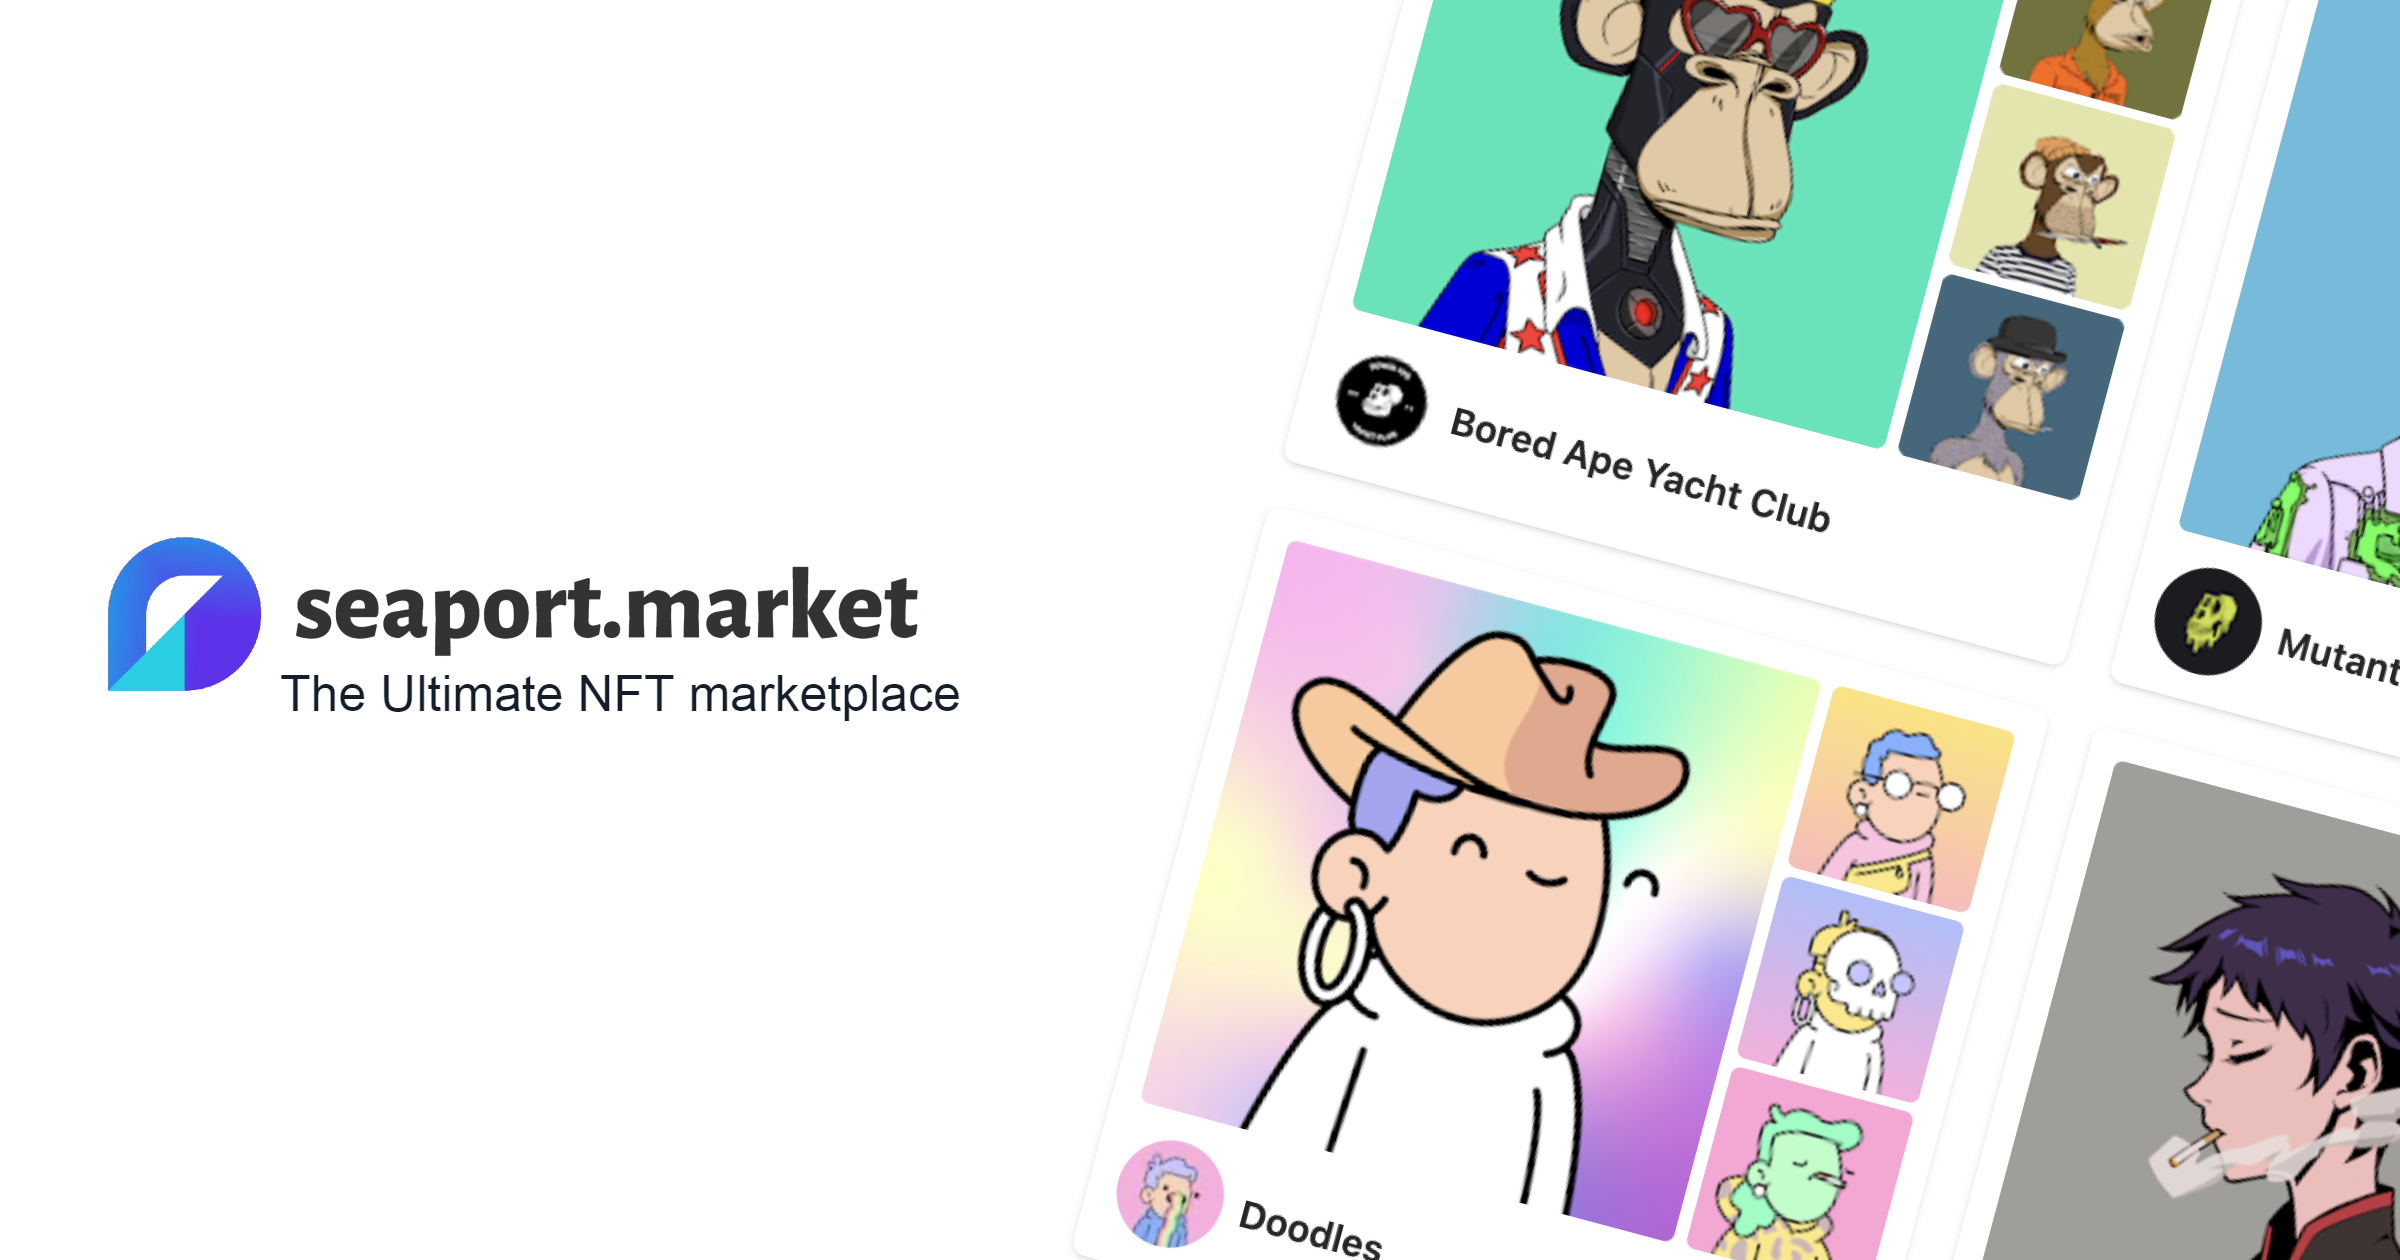
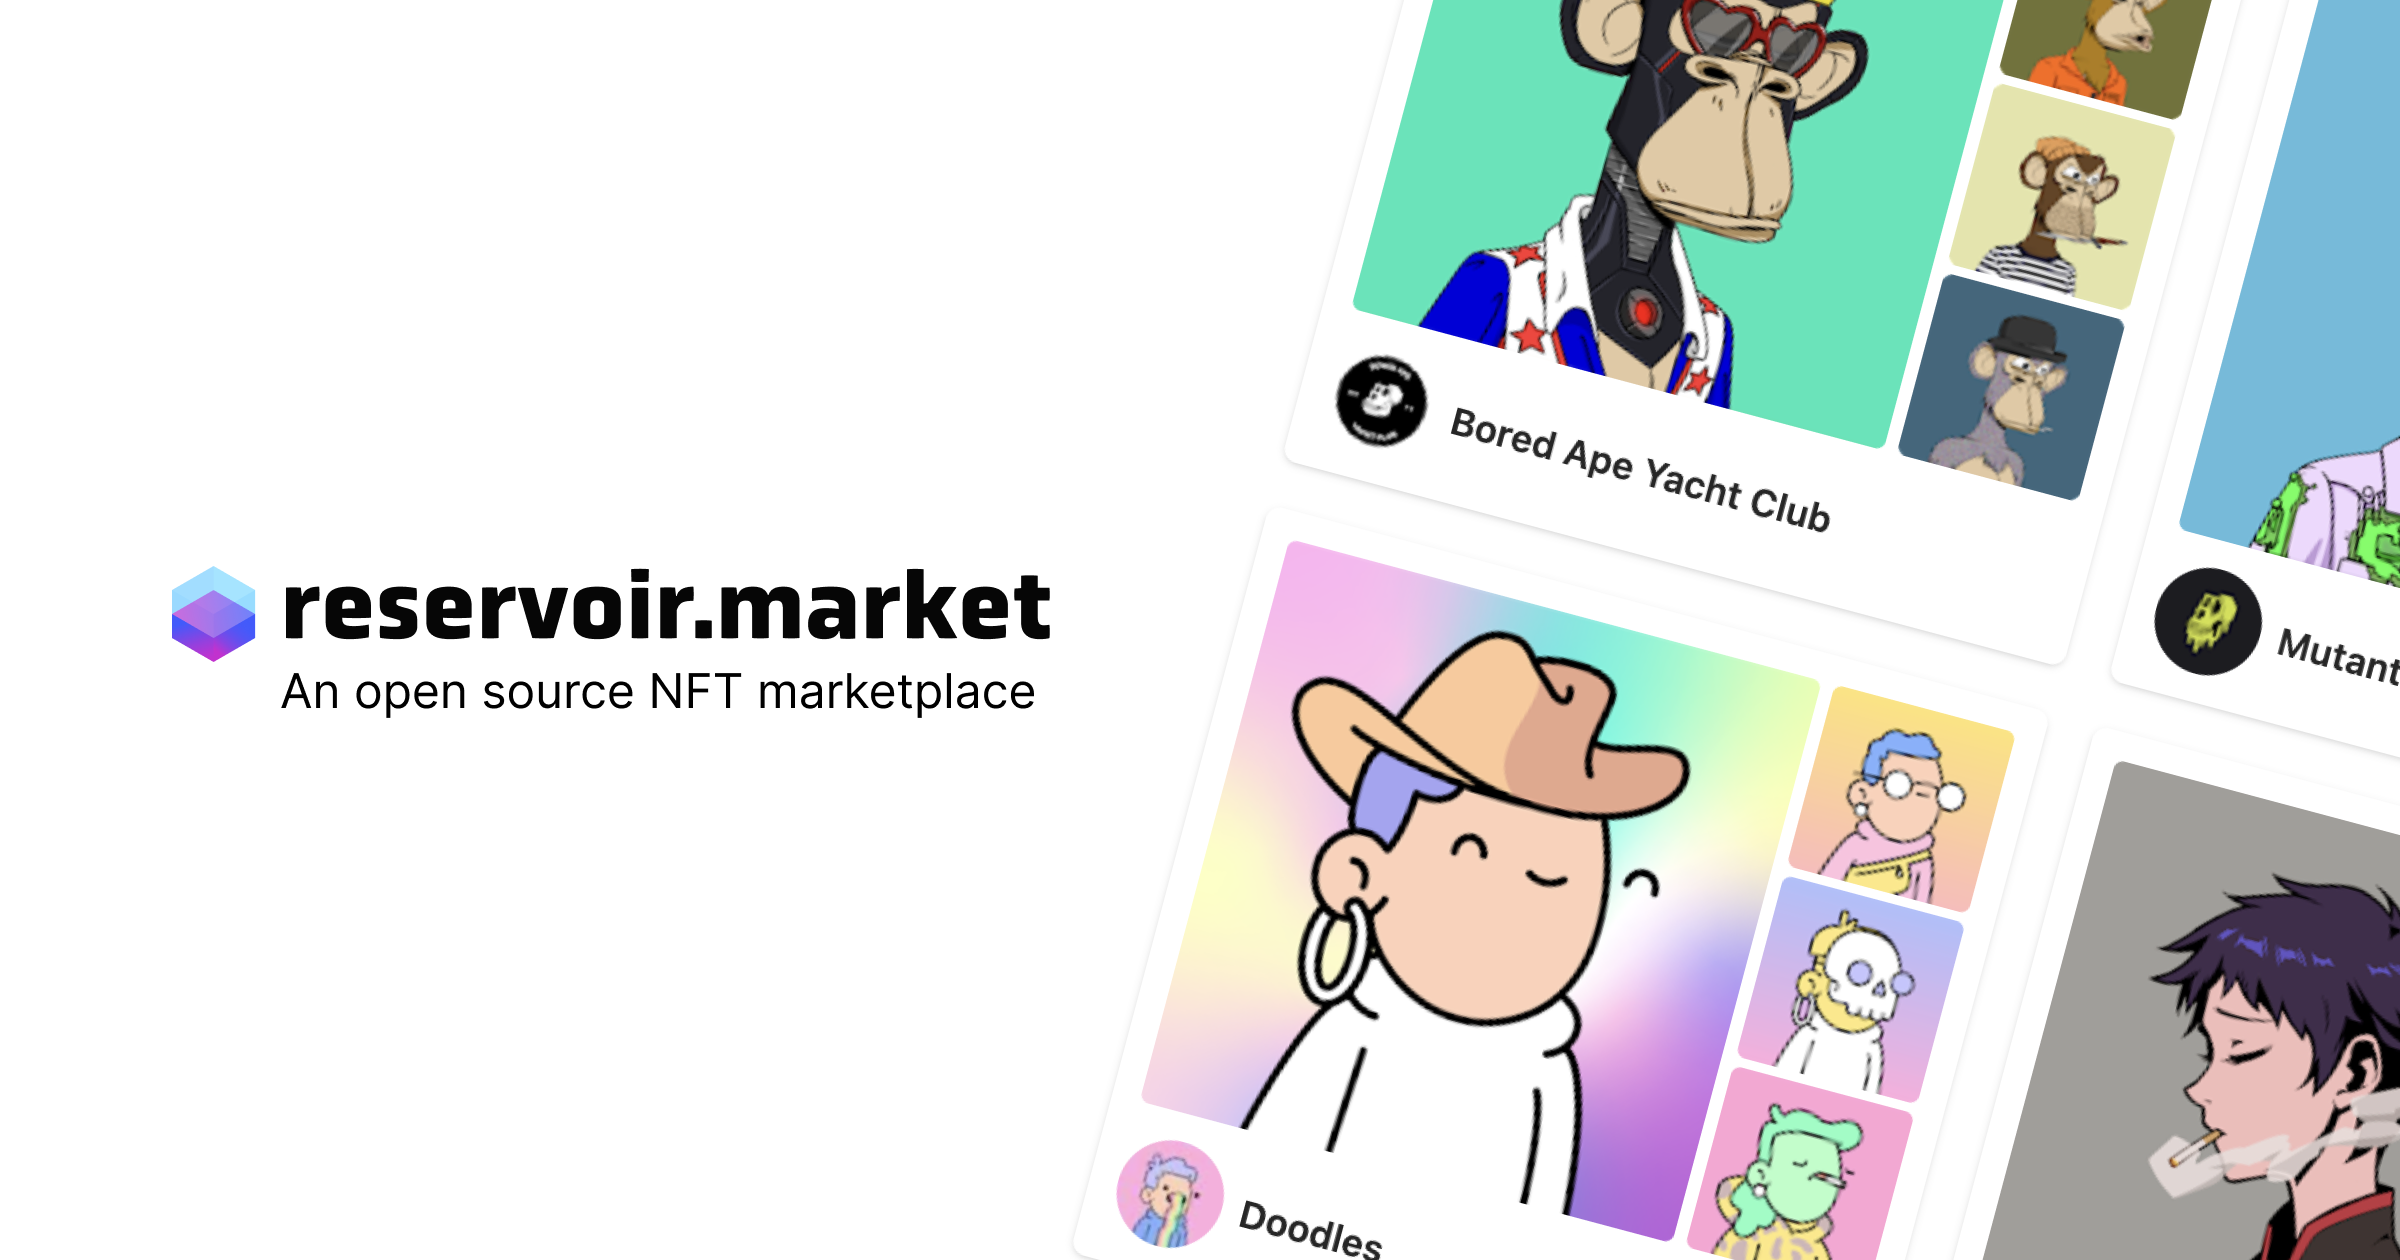
Reset marketplace

Changed region(s): [[0.0312, 0.4024, 0.4375, 0.5881]]

diff --git a/components/TrendingCollectionTable.tsx b/components/TrendingCollectionTable.tsx
@@ -35,8 +35,8 @@ const TrendingCollectionTable: FC<Props> = ({ fallback }) => {
     : []
 
   const columns = isSmallDevice
-    ? ['COLLECTION', 'FLOOR PRICE']
-    : ['COLLECTION', 'VOLUME', 'FLOOR PRICE', 'SUPPLY']
+    ? ['Collection', 'Floor Price']
+    : ['Collection', 'Volume', 'Floor Price', 'Supply']
 
   return (
     <div className="mb-11 overflow-x-auto">
@@ -81,20 +81,19 @@ const TrendingCollectionTable: FC<Props> = ({ fallback }) => {
                 className="group h-[88px] border-b border-neutral-300 dark:border-neutral-600 dark:text-white"
               >
                 {/* COLLECTION */}
-                <td className="reservoir-body flex items-center gap-4 whitespace-nowrap pl-6 py-4 dark:text-white"
-                    style={{ maxWidth: 400, textOverflow: 'ellipsis', whiteSpace: 'nowrap', overflow: 'hidden', display: 'block' }}>
-                  <div className="reservoir-h6 mr-6 dark:text-white" style={{ float: 'left', marginTop: 17, width: 15 }}>
+                <td className="reservoir-body flex items-center gap-4 whitespace-nowrap px-6 py-4 dark:text-white">
+                  <div className="reservoir-h6 mr-6 dark:text-white">
                     {index + 1}
                   </div>
                   <Link href={tokenHref}>
                     <a className="flex items-center gap-2">
                       <img
                         src={optimizeImage(image, 140)}
-                        className="h-[56px] w-[56px] rounded-lg border border-gray-300 object-cover"
+                        className="h-[56px] w-[56px] rounded-full object-cover"
                       />
                       <div
                         className={`reservoir-h6 overflow-hidden truncate whitespace-nowrap dark:text-white ${
-                          isSmallDevice ? 'max-w-[195px]' : ''
+                          isSmallDevice ? 'max-w-[140px]' : ''
                         }`}
                       >
                         {name}
@@ -114,7 +113,6 @@ const TrendingCollectionTable: FC<Props> = ({ fallback }) => {
                           ? days30
                           : days1
                       }
-                      maximumFractionDigits={2}
                     />
                     <PercentageChange
                       value={

diff --git a/components/ConnectWallet.tsx b/components/ConnectWallet.tsx
@@ -11,7 +11,6 @@ import EthAccount from './EthAccount'
 import * as DropdownMenu from '@radix-ui/react-dropdown-menu'
 import Link from 'next/link'
 import { HiOutlineLogout } from 'react-icons/hi'
-import { FaRegUserCircle } from 'react-icons/fa'
 import FormatEth from './FormatEth'
 import ConnectWalletModal from './ConnectWalletModal'
 import { GlobalContext } from 'context/GlobalState'
@@ -61,7 +60,6 @@ const ConnectWallet: FC = () => {
             <DropdownMenu.Item asChild>
               <a className="group flex w-full cursor-pointer items-center justify-between rounded px-4 py-3 outline-none transition hover:bg-neutral-100 focus:bg-neutral-100 dark:hover:bg-neutral-800 dark:focus:bg-neutral-800">
                 Portfolio
-                <FaRegUserCircle className="h-6 w-7" />
               </a>
             </DropdownMenu.Item>
           </Link>
@@ -81,7 +79,7 @@ const ConnectWallet: FC = () => {
         </div>
         {!DISABLE_POWERED_BY_RESERVOIR && (
           <div className="group mx-auto flex w-full cursor-pointer items-center justify-center gap-3 rounded-b-2xl bg-neutral-100  py-4 px-4 outline-none  transition dark:bg-neutral-800 ">
-            <Link href="https://www.seaport.market/">
+            <Link href="https://reservoirprotocol.github.io/">
               <a
                 className="reservoir-tiny flex gap-2 dark:text-white"
                 target="_blank"
@@ -90,8 +88,8 @@ const ConnectWallet: FC = () => {
                 <img
                   src={
                     !!DARK_MODE
-                      ? `/seaport_watermark_dark.svg`
-                      : `/seaport_watermark_light.svg`
+                      ? `/reservoir_watermark_dark.svg`
+                      : `/reservoir_watermark_light.svg`
                   }
                 />
               </a>

diff --git a/components/SearchCollections.tsx b/components/SearchCollections.tsx
@@ -130,7 +130,7 @@ const SearchCollections: FC<Props> = ({
                 ? 'ml-[72px] h-[72px] w-full outline-none dark:bg-black'
                 : `reservoir-label-l input-primary-outline w-full pl-9 dark:border-neutral-600 dark:bg-neutral-800 dark:text-white dark:ring-primary-900 dark:placeholder:text-neutral-400  dark:focus:ring-4 lg:w-[447px]`
             }
-            placeholder="Search collections"
+            placeholder="Search for a collection"
             {...getInputProps()}
           />
           {typeof inputValue === 'string' && inputValue !== '' && (
@@ -192,7 +192,7 @@ const SearchCollections: FC<Props> = ({
                             'https://via.placeholder.com/30'
                           }
                           alt={`${collection?.name}'s logo.`}
-                          className="h-9 w-9 shrink-0 overflow-hidden rounded-lg"
+                          className="h-9 w-9 shrink-0 overflow-hidden rounded-full"
                         />
                         <span className="reservoir-subtitle ml-2 overflow-hidden text-ellipsis dark:text-white">
                           {collection?.name}
@@ -250,7 +250,7 @@ const SearchCollections: FC<Props> = ({
                         collection?.image ?? 'https://via.placeholder.com/30'
                       }
                       alt={`${collection?.name}'s logo.`}
-                      className="h-9 w-9 shrink-0 overflow-hidden rounded-lg"
+                      className="h-9 w-9 shrink-0 overflow-hidden rounded-full"
                     />
                     <span className="reservoir-subtitle ml-2 overflow-hidden text-ellipsis dark:text-white">
                       {collection?.name}

diff --git a/pages/index.tsx b/pages/index.tsx
@@ -36,7 +36,7 @@ const metadata = {
     <meta name="description" content={description} />
   ),
   tagline: (tagline: string | undefined) => (
-    <>{tagline || 'Explore, collect, and sell NFTs'}</>
+    <>{tagline || 'Discover, buy and sell NFTs'}</>
   ),
   image: (image?: string) => {
     if (image) {
@@ -82,18 +82,18 @@ const Home: NextPage<Props> = ({ fallback }) => {
         {description}
         {image}
       </Head>
-      <header className="col-span-full mb-12 mt-[66px] md:mt-12 lg:px-0">
-                  <h1 className="reservoir-h1 text-center dark:text-white">{tagline}</h1>
-          </header>
-          <div className="col-span-full small-screen-no-padding md:px-16">
-            <div className="mb-9 flex w-full items-center justify-between">
-              <div className="medium-screen-extra-padding reservoir-h4 dark:text-white">
-                Trending
-              </div>
-              {!isSmallDevice && <SortTrendingCollections />}
-            </div>
-            <TrendingCollectionTable fallback={fallback} />
+      <header className="col-span-full mb-12 mt-[66px] px-4 md:mt-40 lg:px-0">
+        <h1 className="reservoir-h1 text-center dark:text-white">{tagline}</h1>
+      </header>
+      <div className="col-span-full px-6 md:px-16">
+        <div className="mb-9 flex w-full items-center justify-between">
+          <div className="reservoir-h4 dark:text-white">
+            Trending Collections
           </div>
+          {!isSmallDevice && <SortTrendingCollections />}
+        </div>
+        <TrendingCollectionTable fallback={fallback} />
+      </div>
     </Layout>
   )
 }

diff --git a/components/HamburgerMenu.tsx b/components/HamburgerMenu.tsx
@@ -3,9 +3,7 @@ import NavbarLogo from 'components/navbar/NavbarLogo'
 import Link from 'next/link'
 import { FC, useState } from 'react'
 import { FiMenu } from 'react-icons/fi'
-import { FaRegUserCircle } from 'react-icons/fa'
-import { MdOutlineAccountBalanceWallet } from 'react-icons/md'
-import { HiOutlineLogout, HiX, HiOutlineUserCircle } from 'react-icons/hi'
+import { HiOutlineLogout, HiX } from 'react-icons/hi'
 import {
   useAccount,
   useConnect,
@@ -94,7 +92,6 @@ const HamburgerMenu: FC<Props> = ({ externalLinks }) => {
                 <Link href={`/address/${accountData.address}`}>
                   <a className="group reservoir-label-l flex w-full cursor-pointer items-center justify-between rounded border-b border-neutral-300 p-4 text-[#4B5563] outline-none transition hover:bg-neutral-100 hover:text-[#1F2937] focus:bg-neutral-100 dark:border-neutral-600 dark:text-white dark:hover:bg-neutral-600">
                     Portfolio
-                    <FaRegUserCircle className="h-6 w-7" />
                   </a>
                 </Link>
 
@@ -114,7 +111,7 @@ const HamburgerMenu: FC<Props> = ({ externalLinks }) => {
                   onClick={() => setWalletModal(true)}
                   className="btn-primary-fill col-span-2 col-start-3 w-full md:col-span-4 md:col-start-5 lg:col-span-4 lg:col-start-9"
                 >
-                  <MdOutlineAccountBalanceWallet className={`h-[32px] w-[32px]`} /> Connect Wallet
+                  Connect Wallet
                 </button>
               </div>
             )}

diff --git a/components/Sweep.tsx b/components/Sweep.tsx
@@ -374,7 +374,7 @@ const Sweep: FC<Props> = ({ tokens, collection, mutate, setToast }) => {
                   </div>
                   {!DISABLE_POWERED_BY_RESERVOIR && (
                     <div className="mx-auto flex items-center justify-center rounded-b-2xl bg-neutral-100 py-4 dark:bg-neutral-800 md:w-[639px]">
-                      <Link href="https://www.seaport.market/">
+                      <Link href="https://reservoirprotocol.github.io/">
                         <a
                           className="reservoir-tiny flex gap-2 dark:text-white"
                           target="_blank"
@@ -384,8 +384,8 @@ const Sweep: FC<Props> = ({ tokens, collection, mutate, setToast }) => {
                             alt="Reservoir Watermark"
                             src={
                               !!DARK_MODE
-                              ? `/seaport_watermark_dark.svg`
-                              : `/seaport_watermark_light.svg`
+                                ? `/reservoir_watermark_dark.svg`
+                                : `/reservoir_watermark_light.svg`
                             }
                           />
                         </a>

diff --git a/components/CartMenu.tsx b/components/CartMenu.tsx
@@ -1,8 +1,7 @@
 import { styled, keyframes } from '@stitches/react'
 import * as Popover from '@radix-ui/react-popover'
 import { FC, useState } from 'react'
-import { FaTrashAlt } from 'react-icons/fa'
-import { MdOutlineShoppingCart } from 'react-icons/md'
+import { FaShoppingCart, FaTrashAlt } from 'react-icons/fa'
 import FormatEth from './FormatEth'
 import { useRecoilState, useRecoilValue } from 'recoil'
 import { Execute } from '@reservoir0x/reservoir-kit-client'
@@ -123,12 +122,12 @@ const CartMenu: FC = () => {
               {cartCount}
             </div>
           )}
-          <MdOutlineShoppingCart className="h-[32px] w-[32px]" />
+          <FaShoppingCart className="h-[18px] w-[18px]" />
         </div>
       </Popover.Trigger>
       <StyledContent
         sideOffset={22}
-        className="z-[10000000] w-[327px] rounded-2xl bg-white p-6 shadow-lg dark:border dark:border-neutral-700 dark:bg-neutral-900"
+        className="z-[10000000] w-[367px] rounded-2xl bg-white p-6 shadow-lg dark:border dark:border-neutral-700 dark:bg-neutral-900"
       >
         <div className="mb-4 flex justify-between">
           <div className="flex items-center">

diff --git a/components/ThemeSwitcher.tsx b/components/ThemeSwitcher.tsx
@@ -37,8 +37,8 @@ const ThemeSwitcher = () => {
         disabled={theme == 'light'}
         className={`flex flex-auto select-none p-3 transition  ${
           theme == 'light'
-            ? 'cursor-not-allowed bg-[#E5E9FF] dark:bg-primary-900'
-            : 'hover:bg-[#E5E9FF] dark:hover:bg-primary-900'
+            ? 'cursor-not-allowed bg-[#F1E5FF] dark:bg-primary-900'
+            : 'hover:bg-[#F1E5FF] dark:hover:bg-primary-900'
         }`}
         aria-label="Light Mode"
       >
@@ -50,8 +50,8 @@ const ThemeSwitcher = () => {
         disabled={theme == 'dark'}
         className={`flex flex-auto select-none p-3 transition  ${
           theme == 'dark'
-            ? 'cursor-not-allowed bg-[#E5E9FF] dark:bg-primary-900'
-            : 'hover:bg-[#E5E9FF] dark:hover:bg-primary-900'
+            ? 'cursor-not-allowed bg-[#F1E5FF] dark:bg-primary-900'
+            : 'hover:bg-[#F1E5FF] dark:hover:bg-primary-900'
         }`}
         aria-label="Dark Mode"
       >

diff --git a/components/modal/ModalCard.tsx b/components/modal/ModalCard.tsx
@@ -80,7 +80,7 @@ const ModalCard: FC<Props> = ({
           </div>
           {!DISABLE_POWERED_BY_RESERVOIR && (
             <div className="mx-auto flex items-center justify-center rounded-b-2xl bg-neutral-100 py-4 dark:bg-neutral-800 md:w-[510px]">
-              <Link href="https://www.seaport.market/">
+              <Link href="https://reservoirprotocol.github.io/">
                 <a
                   className="reservoir-tiny flex gap-2 dark:text-white"
                   target="_blank"
@@ -90,8 +90,8 @@ const ModalCard: FC<Props> = ({
                     alt="watermark"
                     src={
                       !!DARK_MODE
-                      ? `/seaport_watermark_dark.svg`
-                      : `/seaport_watermark_light.svg`
+                        ? `/reservoir_watermark_dark.svg`
+                        : `/reservoir_watermark_light.svg`
                     }
                   />
                 </a>

diff --git a/components/tables/ActivityTable.tsx b/components/tables/ActivityTable.tsx
@@ -222,7 +222,7 @@ const ActivityTableRow: FC<ActivityTableRowProps> = ({ sale }) => {
                   width={48}
                   height={48}
                 />
-                <div className="ml-2 grid truncate whitespace-nowrap dark:text-white max-w-[195px]">
+                <div className="ml-2 grid truncate">
                   <div className="reservoir-h6 dark:text-white">
                     {sale.token?.tokenName ||
                       sale.token?.tokenId ||
@@ -320,7 +320,7 @@ const ActivityTableRow: FC<ActivityTableRowProps> = ({ sale }) => {
               width={48}
               height={48}
             />
-            <div className="ml-2 grid truncate whitespace-nowrap dark:text-white max-w-[195px]">
+            <div className="ml-2 grid truncate">
               <div className="reservoir-h6 dark:text-white">
                 {sale.token?.tokenName ||
                   sale.token?.tokenId ||

diff --git a/components/ConnectWalletModal.tsx b/components/ConnectWalletModal.tsx
@@ -3,7 +3,6 @@ import * as Dialog from '@radix-ui/react-dialog'
 import { HiX } from 'react-icons/hi'
 import { useConnect } from 'wagmi'
 import { FiChevronRight } from 'react-icons/fi'
-import { MdOutlineAccountBalanceWallet } from 'react-icons/md'
 import { GlobalContext } from 'context/GlobalState'
 
 const ConnectWalletModal: FC = () => {
@@ -22,7 +21,7 @@ const ConnectWalletModal: FC = () => {
       }
     >
       <Dialog.Trigger className="btn-primary-fill dark:border-neutral-600  dark:text-white dark:ring-primary-900 dark:focus:ring-4">
-      <MdOutlineAccountBalanceWallet className={`h-[32px] w-[32px]`} /> Connect Wallet
+        Connect Wallet
       </Dialog.Trigger>
       <Dialog.Portal>
         <Dialog.Overlay>

diff --git a/components/Navbar.tsx b/components/Navbar.tsx
@@ -1,5 +1,5 @@
 import { FC, ReactElement, useEffect, useState } from 'react'
-import ConnectWallets from './ConnectWallets'
+import ConnectWallet from './ConnectWallet'
 import HamburgerMenu from './HamburgerMenu'
 import dynamic from 'next/dynamic'
 import { paths } from '@reservoir0x/reservoir-kit-client'
@@ -144,7 +144,7 @@ const Navbar: FC = () => {
       <CartMenu />
       <HamburgerMenu externalLinks={externalLinks} />
       <div className="z-10 ml-auto hidden shrink-0 md:flex md:gap-2">
-        <ConnectWallets />
+        <ConnectWallet />
         <ThemeSwitcher />
       </div>
     </nav>
